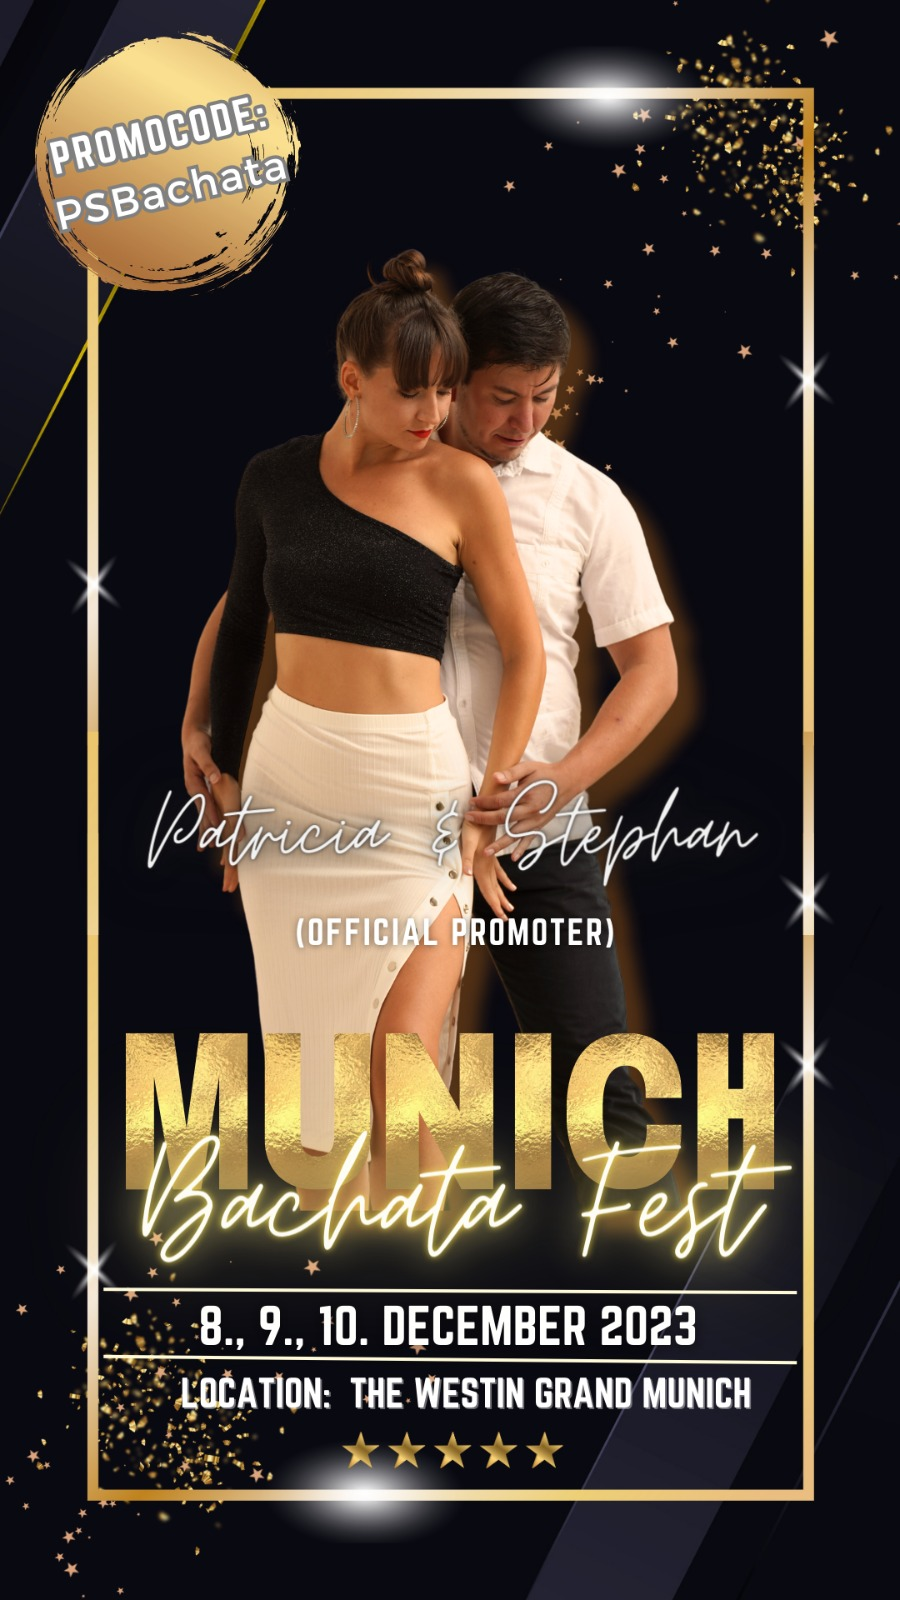
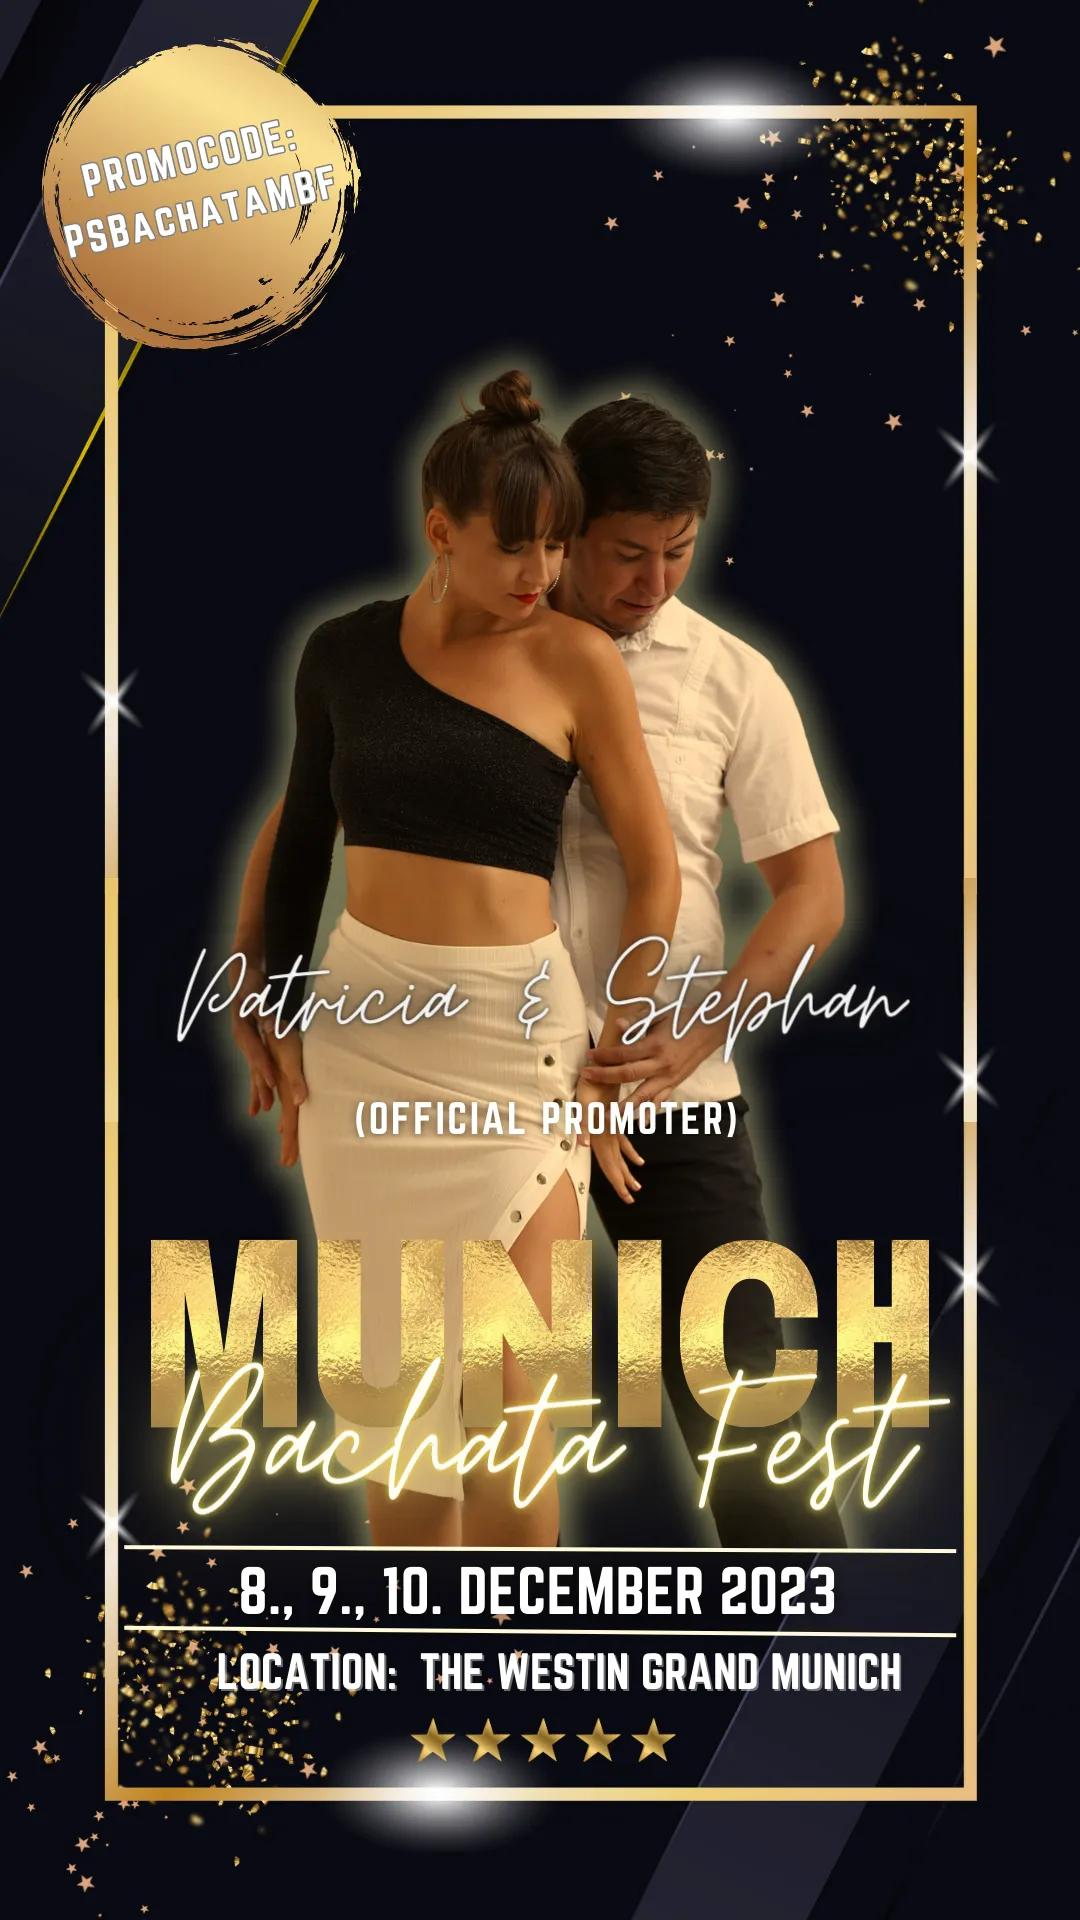
new promocode for munich

diff --git a/index.html b/index.html
@@ -580,10 +580,10 @@
                 <div class="row">
                   <div class="col-lg-8 details order-2 order-lg-1">
                     <h3>Munich Bachata Fest</h3>
-                    <p class="fst-italic">Promocode: PSBachata</p>
+                    <p class="fst-italic">Promocode: PSBachataMBF</p>
                     <p>Datum: 08.12. - 10.12.23</p>
                     <p>Ort: The Westin Grand Munich</p>
-                    <p><a class="btn btn-book" href="https://www.goandance.com/en/events/6180-munich-bachata-fest-2023?promoter=PSBachata" role="link">Tickets</a> </p>
+                    <p><a class="btn btn-book" href="https://www.goandance.com/en/events/6180-munich-bachata-fest-2023?promoter=PSBachataMBF" role="link">Tickets</a> </p>
                     <p>Social Media: <a href="https://www.instagram.com/munichbachatafest" class="instagram" target="_blank"><i class="bx bxl-instagram">munichbachatafest</i> </a>
                     </p>
                     <p>Nächste Preisstufe: 01.09.23</p>
